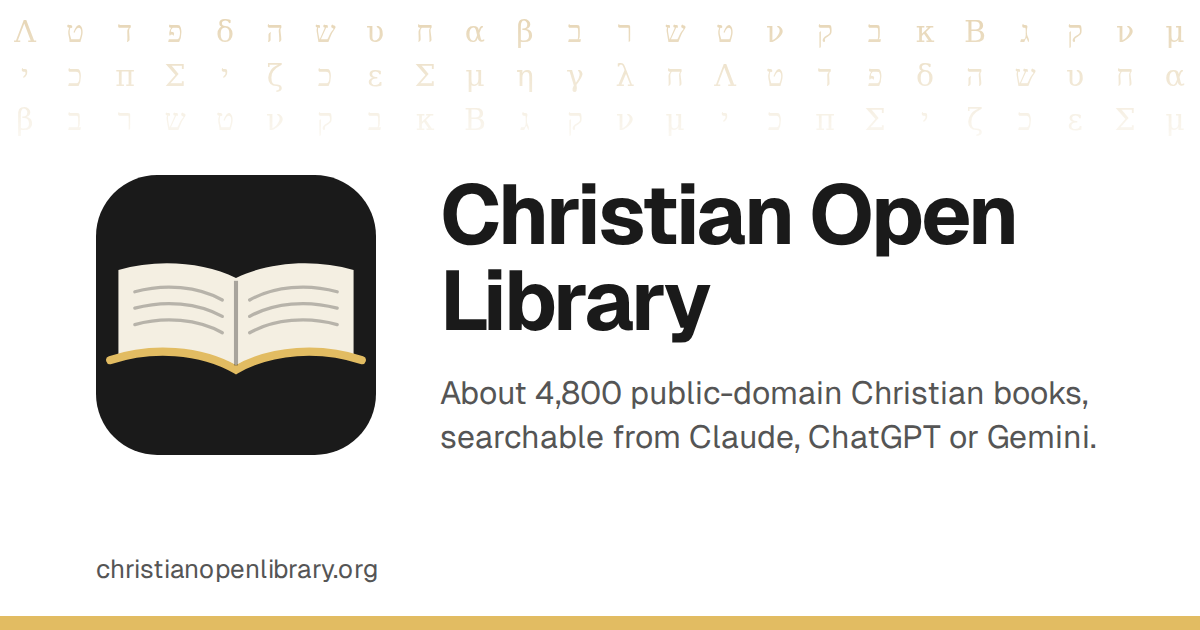
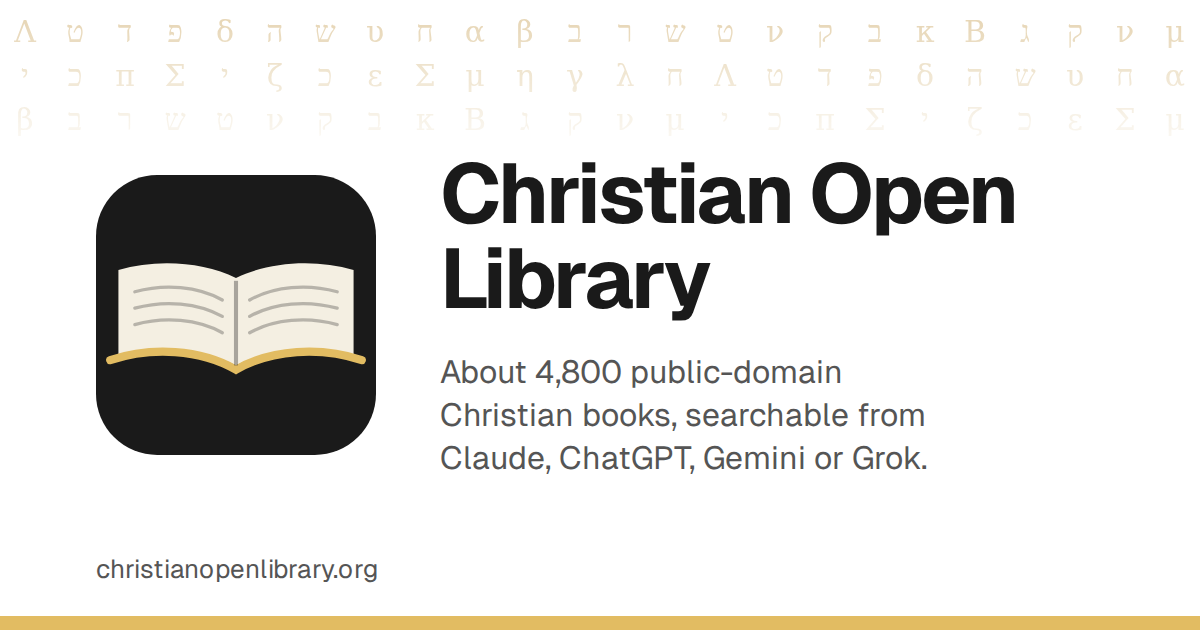
Link preview image: add Grok

Changed region(s): [[0.37, 0.2413, 0.8633, 0.5429], [0.37, 0.573, 0.925, 0.754]]

diff --git a/tools/icons.js b/tools/icons.js
@@ -18,7 +18,7 @@ body { width: 1200px; height: 630px; background: #fff; font-family: Geist, sans-
        display: flex; align-items: center; gap: 64px; padding: 0 96px; box-sizing: border-box; position: relative; }
 img { width: 280px; height: 280px; flex: none; }
 h1 { font-size: 84px; line-height: 1.02; letter-spacing: -.03em; font-weight: 700; margin: 0 0 28px; }
-p { font-size: 32px; line-height: 1.35; color: #555; margin: 0; }
+p { font-size: 32px; line-height: 1.35; color: #555; margin: 0; text-wrap: balance; }
 .bar { position: absolute; left: 0; right: 0; bottom: 0; height: 14px; background: #e2bc62; }
 .letters { position: absolute; left: 0; right: 0; top: 0; height: 150px; overflow: hidden; font-family: 'DejaVu Serif', Georgia, serif; color: #c9a45c; font-size: 30px;
            display: grid; grid-template-columns: repeat(24, 50px); grid-auto-rows: 44px; justify-content: center; padding-top: 14px;
@@ -26,7 +26,7 @@ p { font-size: 32px; line-height: 1.35; color: #555; margin: 0; }
 .letters span { text-align: center; }
 .url { position: absolute; left: 96px; bottom: 44px; font-size: 26px; color: #555; letter-spacing: .01em; }
 </style><div class="letters">${letters}</div><img src="${icon}"><div><h1>Christian Open Library</h1>
-<p>About 4,800 public-domain Christian books, searchable from Claude, ChatGPT or Gemini.</p></div>
+<p>About 4,800 public-domain Christian books, searchable from Claude, ChatGPT, Gemini or Grok.</p></div>
 <div class="url">christianopenlibrary.org</div><div class="bar"></div>`;
 
 (async () => {
